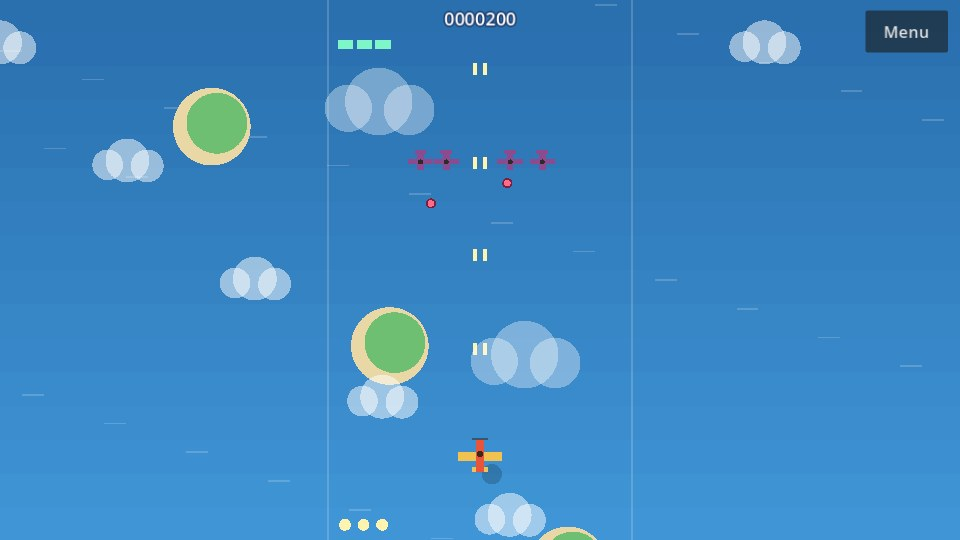
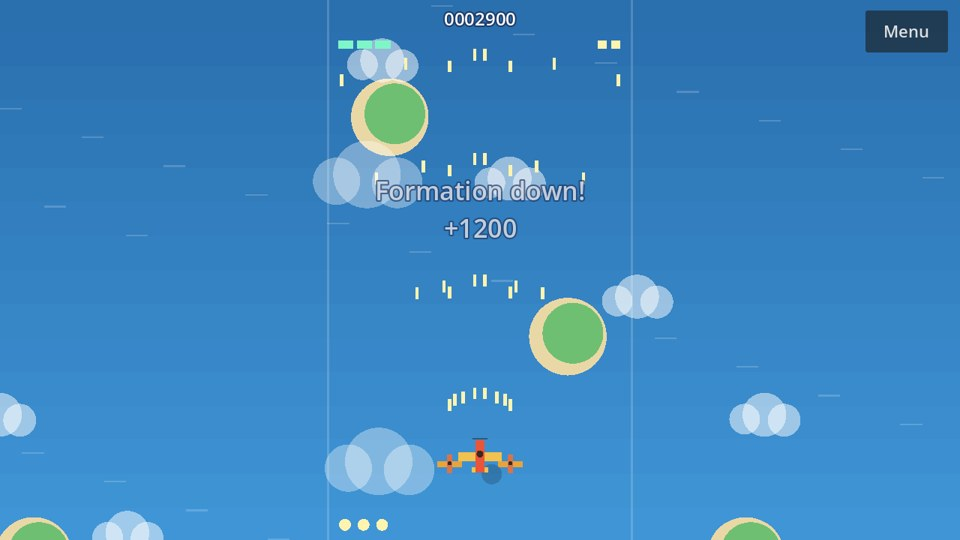
Game Shelf: Updraft Aces 0.2.0
Claude-Session: https://claude.ai/code/session_0117TTYD6TakzAmnMzE7qScH

diff --git a/index.html b/index.html
@@ -67,11 +67,11 @@ h2 a[href="lo-fi-league/"]{font-size:.9em;word-spacing:.35em}h2 a[href="pixel-ho
 <section class="grid">
 
 <article class="card" data-repo="updraft-aces">
-<a class="shot" href="updraft-aces/"><img src="images/updraft-aces.jpg?v=0.1.0" alt="Updraft Aces: the red and yellow prop plane fires up at a formation of purple planes over the sea and islands" width="960" height="540" loading="lazy"></a>
+<a class="shot" href="updraft-aces/"><img src="images/updraft-aces.jpg?v=0.2.0" alt="Updraft Aces: the plane and its two wingmen fire a wide spread shot as a formation goes down" width="960" height="540" loading="lazy"></a>
 <div class="body">
 <div class="top"><h2><a href="updraft-aces/">Updraft Aces</a></h2><span class="tag">A sky shooter with a bearded pilot</span></div>
-<p class="desc">Fly a prop plane up through fantasy skies over islands and a sea of clouds. Steer while auto-fire shoots, break whole formations for a bonus and roll out of trouble. No bosses and no game over: a broken shield sends you back to the last checkpoint with your score kept. First test build, gray box art. Five save slots. Touch, keyboard or Xbox controller, upright or sideways.</p>
-<p class="meta">Browser and Android<span class="ver"> · Version 0.1.0</span> <span class="upd">· Updated <time datetime="2026-11-20T10:29-06:00">Nov 20, 2026, 10:29 AM CT</time></span></p>
+<p class="desc">Fly a prop plane up through fantasy skies over islands and a sea of clouds. Steer while auto-fire shoots, break whole formations for power-ups (a spread shot, two wingmen and extra shield) and roll out of trouble. No bosses and no game over: a broken shield sends you back to the last checkpoint with your score kept. Five assists for an easier flight. Gray box art for now. Five save slots. Touch, keyboard or Xbox controller, upright or sideways.</p>
+<p class="meta">Browser and Android<span class="ver"> · Version 0.2.0</span> <span class="upd">· Updated <time datetime="2026-11-20T10:48-06:00">Nov 20, 2026, 10:48 AM CT</time></span></p>
 <div class="actions"><a class="btn" href="updraft-aces/">Open game page</a></div>
 </div>
 </article>
